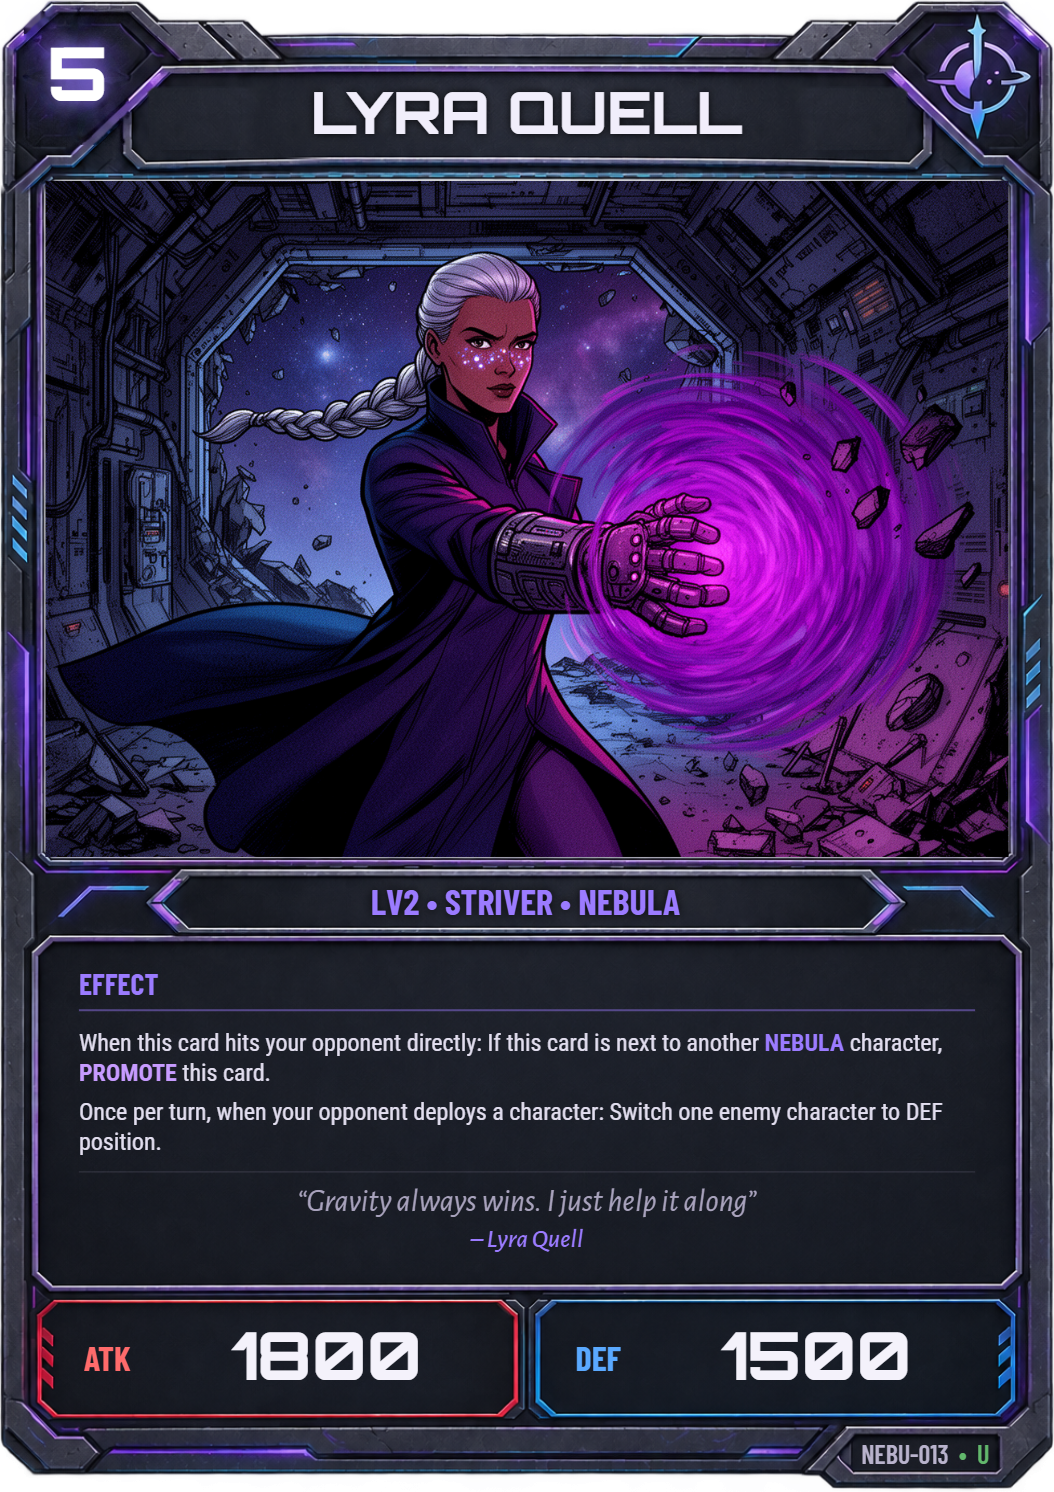
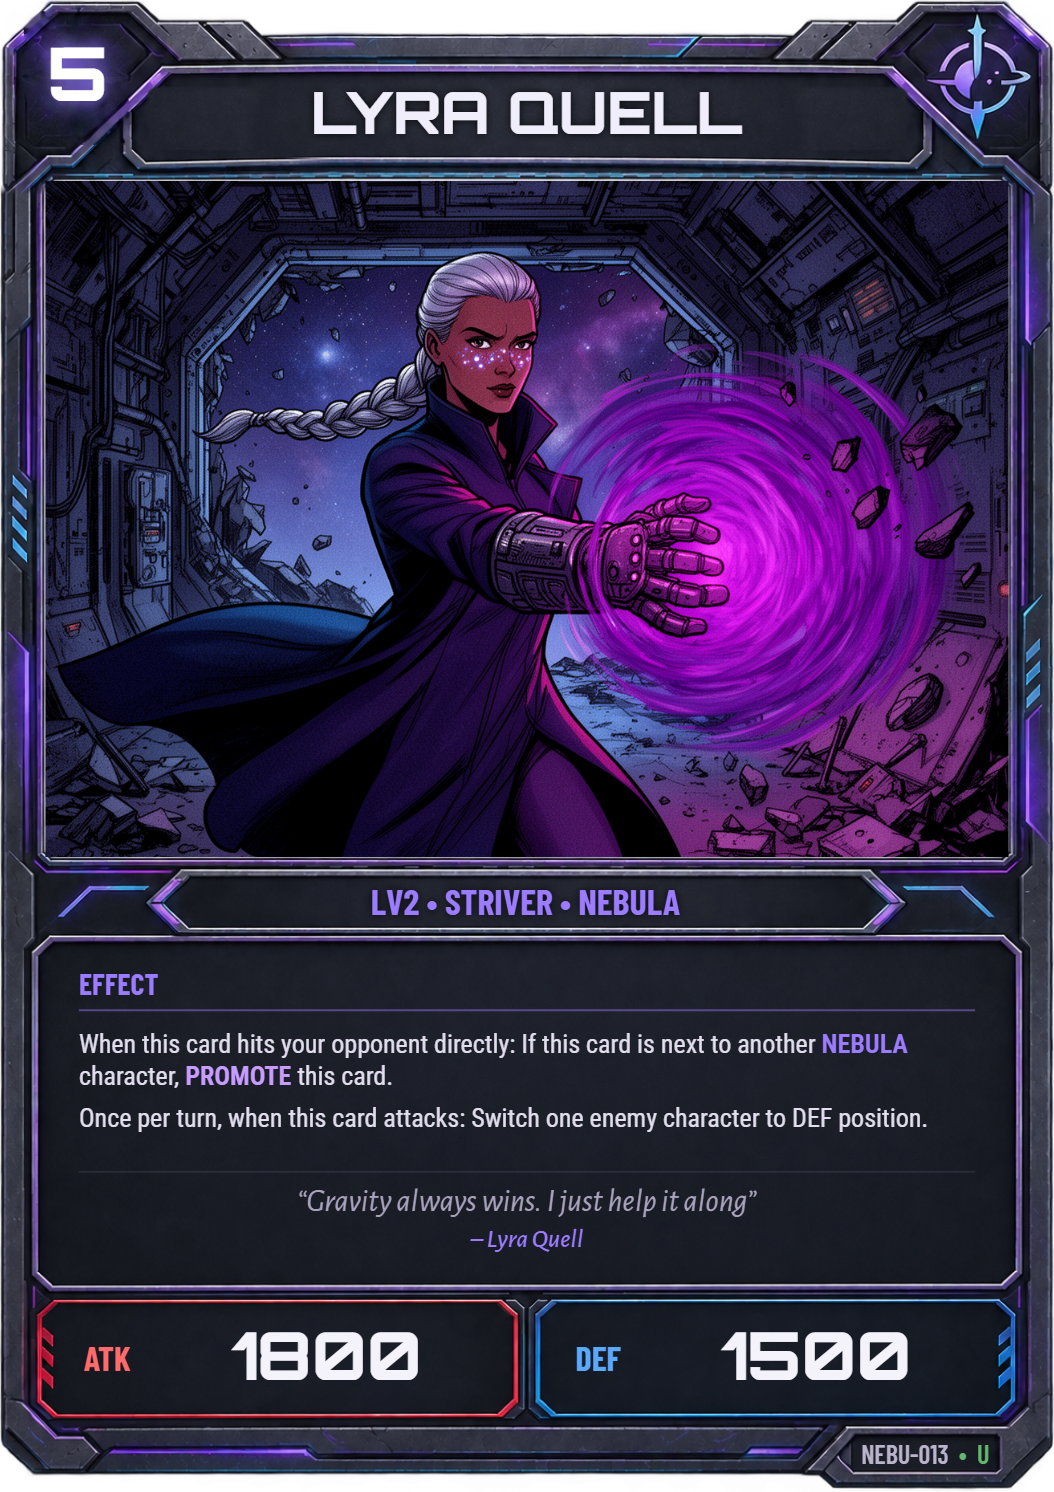
0.7.4: cleaner ATK/DEF badge, face-down hover fixes, Forge cards
The field badge is a slim pill under the card (no longer over the art), with
ATK/DEF labels, raised/lowered colours and a red edge when Downed. Hovering
your own face-down card shows it; the opponent's shows their card back.
Forge: HULL BREACH; Archon of Nebula, Lyra Quell LV2, Nebula Lookout updated.
ui_smoke allows cards that may attack again.

Changed region(s): [[0.0607, 0.6783, 0.8805, 0.7708]]

diff --git a/shared/cards_forge.js b/shared/cards_forge.js
@@ -192,7 +192,7 @@ export const FORGE_CARDS = {
             "chars": 4,
             "authority": 8
         },
-        "influence": 4000
+        "influence": 3000
     },
     "card_nebu_010": {
         "id": "card_nebu_010",
@@ -292,7 +292,7 @@ export const FORGE_CARDS = {
         "art_url": "card_nebu_013",
         "code": "NEBU-013",
         "flavourText": "Gravity always wins. I just help it along",
-        "effectText": "When this card hits your opponent directly: If this card is next to another NEBULA character, PROMOTE this card.\nOnce per turn, when your opponent deploys a character: Switch one enemy character to DEF position.",
+        "effectText": "When this card hits your opponent directly: If this card is next to another NEBULA character, PROMOTE this card.\nOnce per turn, when this card attacks: Switch one enemy character to DEF position.",
         "effects": [
             {
                 "when": "direct",
@@ -301,7 +301,7 @@ export const FORGE_CARDS = {
                 "if_clan": "nebula"
             },
             {
-                "when": "foe_deployed",
+                "when": "attack",
                 "do": "force_def",
                 "target": "enemy",
                 "once": true
@@ -364,13 +364,14 @@ export const FORGE_CARDS = {
         "art_url": "card_nebu_018",
         "code": "NEBU-018",
         "flavourText": "I see everything coming. Usually before you do.",
-        "effectText": "When your opponent deploys a character: If this card is next to another NEBULA character, DOWN one enemy character.",
+        "effectText": "Once per turn, when your opponent deploys a character: If this card is next to another NEBULA character, DOWN one enemy character.",
         "effects": [
             {
                 "when": "foe_deployed",
                 "do": "down",
                 "target": "enemy",
                 "if": "adjacent",
+                "once": true,
                 "if_clan": "nebula"
             }
         ],
@@ -592,5 +593,32 @@ export const FORGE_CARDS = {
         "level": 1,
         "subtype": "brawler",
         "promotesTo": null
+    },
+    "card_nebu_029": {
+        "id": "card_nebu_029",
+        "name": "HULL BREACH",
+        "clan": "nebula",
+        "cardType": "ambush",
+        "authority": 3,
+        "tributeCost": 0,
+        "rarity": 3,
+        "clanTag": "nebula",
+        "effectKey": "",
+        "art_url": "card_nebu_029",
+        "code": "NEBU-029",
+        "flavourText": "Probably Shouldn't have hammered there",
+        "effectText": "When an enemy attacks one of your NEBULA characters: If your opponent controls 3 or more characters, put all enemy characters in STASIS.",
+        "effects": [
+            {
+                "when": "defend",
+                "do": "stasis",
+                "target": "enemies",
+                "if": "enemies_ge",
+                "n": 3
+            }
+        ],
+        "clanName": "Nebula",
+        "clanColor": "#9b7bff",
+        "ambushClan": "nebula"
     }
 };
